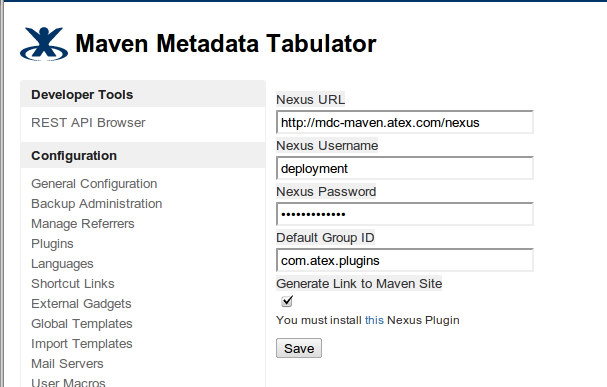
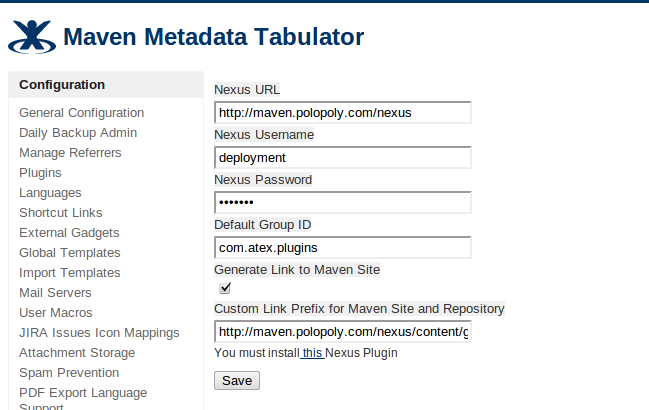
MDCPD-188 Add validation and tune unit test case

Changed region(s): [[0.3262, 0.186, 0.8896, 0.9302], [0.0, 0.0, 0.6227, 1.0], [0.3262, 0.8992, 0.4152, 0.9612]]

diff --git a/src/test/java/com/atex/confluence/plugin/nexus/config/ConfigurationReaderTest.java b/src/test/java/com/atex/confluence/plugin/nexus/config/ConfigurationReaderTest.java
@@ -1,34 +1,78 @@
 package com.atex.confluence.plugin.nexus.config;
 
-import java.io.IOException;
+import static junit.framework.Assert.assertEquals;
+import static junit.framework.Assert.assertNull;
+import static org.mockito.Mockito.when;
+
+import java.net.MalformedURLException;
 
 import org.apache.commons.httpclient.UsernamePasswordCredentials;
 import org.apache.commons.httpclient.auth.AuthScope;
+import org.junit.Before;
 import org.junit.Test;
+import org.mockito.Mock;
+import org.mockito.MockitoAnnotations;
 
-import com.atex.confluence.plugin.nexus.config.Configuration;
-
-import static junit.framework.Assert.*;
+import com.atlassian.sal.api.pluginsettings.PluginSettings;
+import com.atlassian.sal.api.pluginsettings.PluginSettingsFactory;
 
 /**
  * @author pau
  *
  */
 public class ConfigurationReaderTest {
-    
-    @Test
-    public void testRead() throws IOException {
-        Configuration target = new Configuration("http://thisisnexus.com/nexus", "thisisusername", "thisispassword", "com.example.plugins", true, "http://nexuslink.com/prefix/");
-        AuthScope scope = target.getAuthScope();
-        assertEquals("thisisnexus.com", scope.getHost());
-        assertEquals(80, scope.getPort());
-        UsernamePasswordCredentials credentials = (UsernamePasswordCredentials)target.getCredentials();
-        assertEquals("thisisusername", credentials.getUserName());
-        assertEquals("thisispassword", credentials.getPassword());
-        assertEquals("com.example.plugins", target.getGroupId());
-        assertEquals("http://thisisnexus.com/nexus", target.getURL());
-        assertEquals("http://thisisnexus.com/nexus/service/local/lucene/search", target.getSearchURI());
-        assertEquals("http://thisisnexus.com/nexus/service/local/all_repositories", target.getSearchRepositoriesURI());
-        assertEquals("http://nexuslink.com/prefix/", target.getNexusLinkPrefix());
+
+    ConfigurationReader target;
+
+    Configuration configuration;
+
+    @Mock
+    PluginSettingsFactory pluginSettingsFactory;
+    @Mock
+    PluginSettings settings;
+
+    private static final String SAMPLE_HOST = "thisisnexus.com";
+    private static final String SAMPLE_URL = "http://" + SAMPLE_HOST + "/nexus";
+    private static final String SAMPLE_USERNAME = "thisisusername";
+    private static final String SAMPLE_PASSWORD = "thisispassword";
+    private static final String SAMPLE_GROUPID = "com.example.plugins";
+    private static final String SAMPLE_NEXUSLINKPREFIX = "http://nexuslink.com/prefix";
+
+    @Before
+    public void setup() {
+        MockitoAnnotations.initMocks(this);
+        target = new ConfigurationReader(pluginSettingsFactory);
+        when(pluginSettingsFactory.createGlobalSettings()).thenReturn(settings);
+        when(settings.get(Configuration.URL)).thenReturn(SAMPLE_URL);
+        when(settings.get(Configuration.USERNAME)).thenReturn(SAMPLE_USERNAME);
+        when(settings.get(Configuration.PASSWORD)).thenReturn(SAMPLE_PASSWORD);
+        when(settings.get(Configuration.GROUPID)).thenReturn(SAMPLE_GROUPID);
+        when(settings.get(Configuration.NEXUSLINKPREFIX)).thenReturn(SAMPLE_NEXUSLINKPREFIX);
     }
+
+    @Test
+    public void testTransaction() throws MalformedURLException {
+        when(settings.get(Configuration.GENERATE_LINK)).thenReturn("true");
+        configuration = target.doInTransaction();
+        AuthScope scope = configuration.getAuthScope();
+        assertEquals(SAMPLE_HOST, scope.getHost());
+        assertEquals(80, scope.getPort());
+        UsernamePasswordCredentials credentials = (UsernamePasswordCredentials)configuration.getCredentials();
+        assertEquals(SAMPLE_USERNAME, credentials.getUserName());
+        assertEquals(SAMPLE_PASSWORD, credentials.getPassword());
+        assertEquals(SAMPLE_GROUPID, configuration.getGroupId());
+        assertEquals(SAMPLE_URL, configuration.getURL());
+        assertEquals(SAMPLE_URL + "/service/local/lucene/search", configuration.getSearchURI());
+        assertEquals(SAMPLE_URL + "/service/local/all_repositories", configuration.getSearchRepositoriesURI());
+        assertEquals(SAMPLE_NEXUSLINKPREFIX, configuration.getNexusLinkPrefix());
+        assertEquals(true, configuration.isGenerateLink());
+    }
+
+    @Test
+    public void testMalformedURLTransaction() throws MalformedURLException {
+        when(settings.get(Configuration.URL)).thenReturn("malformed");
+        configuration = target.doInTransaction();
+        assertNull(configuration);
+    }
+
 }

diff --git a/src/test/java/com/atex/confluence/plugin/nexus/config/ConfigurationTest.java b/src/test/java/com/atex/confluence/plugin/nexus/config/ConfigurationTest.java
@@ -4,6 +4,8 @@ import static org.junit.Assert.*;
 
 import java.net.MalformedURLException;
 
+import org.apache.commons.httpclient.UsernamePasswordCredentials;
+import org.apache.commons.httpclient.auth.AuthScope;
 import org.junit.Before;
 import org.junit.Test;
 
@@ -13,22 +15,31 @@ public class ConfigurationTest {
     @Before
     public void setUp() throws Exception {
         target = new Configuration("http://urlString.com", 
-                "username","password","groupId",true, "http://nexuslink.com/prefix/");
+                "username","password","groupId", true, "");
+    }
+
+    @Test
+    public void testConfiguration() {
+        Configuration configuration = new Configuration();
+        assertNotNull(configuration);
     }
 
     @Test
     public void testGetUsername() {
-        assertEquals("username", target.getUsername());
+        target.setUsername("otheruser");
+        assertEquals("otheruser", target.getUsername());
     }
 
     @Test
     public void testGetPassword() {
-        assertEquals("password", target.getPassword());
+        target.setPassword("otherpassword");
+        assertEquals("otherpassword", target.getPassword());
     }
 
     @Test
     public void testGetGroupId() {
-        assertEquals("groupId", target.getGroupId());
+        target.setGroupId("othergroupId");
+        assertEquals("othergroupId", target.getGroupId());
     }
 
     @Test
@@ -48,7 +59,8 @@ public class ConfigurationTest {
 
     @Test
     public void testGetURLString() {
-        assertEquals("http://urlString.com", target.getUrlString());
+        target.setUrlString("http://urlStringToo.com");
+        assertEquals("http://urlStringToo.com", target.getUrlString());
     }
 
     @Test
@@ -62,8 +74,38 @@ public class ConfigurationTest {
     }
 
     @Test
+    public void testGenerateLink() {
+        target.setGenerateLink(false);
+        assertFalse(target.isGenerateLink());
+    }
+
+    @Test
+    public void testGetCredential() {
+        UsernamePasswordCredentials credentials = (UsernamePasswordCredentials) target.getCredentials();
+        assertNotNull(credentials);
+        assertEquals("username", credentials.getUserName());
+        assertEquals("password", credentials.getPassword());
+    }
+
+    @Test
+    public void testGetAuthScope() {
+        AuthScope scope = target.getAuthScope();
+        assertEquals("urlstring.com", scope.getHost());
+        assertEquals(80, scope.getPort());
+    }
+
+    @Test
+    public void testGetAuthScopeDefinedPort() throws MalformedURLException {
+        target.setURL("http://urlString.com:8080");
+        AuthScope scope = target.getAuthScope();
+        assertEquals("urlstring.com", scope.getHost());
+        assertEquals(8080, scope.getPort());
+    }
+
+    @Test
     public void testGetNexusLinkPrefix() {
-        assertEquals("http://nexuslink.com/prefix/", target.getNexusLinkPrefix());
+        target.setNexusLinkPrefix("http://nexuslink.com/prefix");
+        assertEquals("http://nexuslink.com/prefix", target.getNexusLinkPrefix());
     }
 
 }

diff --git a/src/test/java/com/atex/confluence/plugin/nexus/data/ArtifactTest.java b/src/test/java/com/atex/confluence/plugin/nexus/data/ArtifactTest.java
@@ -1,12 +1,12 @@
 package com.atex.confluence.plugin.nexus.data;
 
-import static org.junit.Assert.*;
+import static org.junit.Assert.assertEquals;
+import static org.junit.Assert.assertFalse;
+import static org.junit.Assert.assertNotNull;
+import static org.junit.Assert.assertTrue;
 
 import org.junit.Before;
 import org.junit.Test;
-import org.mockito.MockitoAnnotations;
-
-import static org.mockito.Mockito.*;
 
 public class ArtifactTest {
 
@@ -14,8 +14,7 @@ public class ArtifactTest {
 
     @Before
     public void setUp() throws Exception {
-        MockitoAnnotations.initMocks(this);
-        target = spy(new Artifact()) ;
+        target = new Artifact() ;
         target.setGroupId("groupId");
         target.setArtifactId("artifactId");
         target.setVersion("1.0.0");
@@ -23,12 +22,7 @@ public class ArtifactTest {
         target.setLatestReleaseRepositoryId("latestReleaseRepositoryId");
         target.setLatestSnapshot("2.0.1-SNAPSHOT");
         target.setLatestSnapshotRepositoryId("latestSnapshotRepositoryId");
-//        when(target.isSnapshot()).thenReturn(true);
     }
-
-//    private void whenNotSnapshot() {
-//        when(target.isSnapshot()).thenReturn(false);
-//    }
 
     @Test
     public void testGetGroupId() {
@@ -82,4 +76,53 @@ public class ArtifactTest {
         assertFalse(target.isSnapshot());
     }
 
+    @Test
+    public void testToString() {
+        String expected = "[groupId: groupId, artifactId: artifactId, version: 1.0.0, latestSnapshotRepositoryId: latestSnapshotRepositoryId, latestReleaseRepositoryId: latestReleaseRepositoryId, latestRelease: 2.0.0]";
+        assertEquals(expected, target.toString());
+    }
+
+    @Test
+    public void testEqual() {
+        assertTrue(target.equals(target));
+    }
+
+    @Test
+    public void testNotEqualArtifactId() {
+        Artifact another = new Artifact() ;
+        another.setGroupId("groupId");
+        another.setArtifactId("otherartifactId");
+        another.setVersion("1.0.0");
+        assertFalse(target.equals(another));
+    }
+
+    @Test
+    public void testNotEqualGroupId() {
+        Artifact another = new Artifact() ;
+        another.setGroupId("othergroupId");
+        another.setArtifactId("artifactId");
+        another.setVersion("1.0.0");
+        assertFalse(target.equals(another));
+    }
+
+    @Test
+    public void testNotEqualVersion() {
+        Artifact another = new Artifact() ;
+        another.setGroupId("groupId");
+        another.setArtifactId("artifactId");
+        another.setVersion("2.0.0");
+        assertFalse(target.equals(another));
+    }
+
+    @Test
+    public void testNotEqualOtherInstance() {
+        Object object = new Object();
+        assertFalse(target.equals(object));
+    }
+
+    @Test
+    public void testHashCode() {
+        Integer expected = target.hashCode();
+        assertNotNull(expected);
+    }
 }

diff --git a/src/main/java/com/atex/confluence/plugin/nexus/config/ConfigurationServlet.java b/src/main/java/com/atex/confluence/plugin/nexus/config/ConfigurationServlet.java
@@ -13,6 +13,7 @@ import com.atlassian.templaterenderer.TemplateRenderer;
 import java.io.IOException;
 import java.net.MalformedURLException;
 import java.net.URI;
+import java.net.URL;
 import java.util.HashMap;
 import java.util.Map;
 import javax.servlet.ServletException;
@@ -89,6 +90,9 @@ public class ConfigurationServlet extends HttpServlet {
         if (!isValid(groupId)) {
             models.put("groupId", "error");
         }
+        if (!isWellformedURL(nexusLinkPrefix)) {
+            models.put("nexusLinkPrefix", "error");
+        }
 
         Configuration configuration = null;
         try {
@@ -135,7 +139,18 @@ public class ConfigurationServlet extends HttpServlet {
             renderer.render(VIEW, models, resp.getWriter());
         }
     }
-    
+
+    private boolean isWellformedURL(String nexusLinkPrefix) {
+        if (isValid(nexusLinkPrefix)) {
+            try {
+                new URL(nexusLinkPrefix);
+            } catch (MalformedURLException e) {
+                return false;
+            }
+        }
+        return true;
+    }
+
     private boolean isValid(String value) {
         if (value == null || value.trim().isEmpty()) {
             return false;

diff --git a/src/main/java/com/atex/confluence/plugin/nexus/config/ConfigurationReader.java b/src/main/java/com/atex/confluence/plugin/nexus/config/ConfigurationReader.java
@@ -31,11 +31,16 @@ public class ConfigurationReader implements TransactionCallback<Configuration> {
             String groupId = (String)settings.get(GROUPID);
             String nexusLinkPrefix = (String)settings.get(NEXUSLINKPREFIX);
             Boolean generateLink = Boolean.valueOf((String) settings.get(GENERATE_LINK));
-            return new Configuration(urlString, username, password, groupId, generateLink == null? false: generateLink.booleanValue(), nexusLinkPrefix);
+            boolean generateLinkValue = generateLink.booleanValue();
+            return new Configuration(urlString, username, password, groupId, generateLinkValue, nexusLinkPrefix);
         } catch (MalformedURLException ex) {
             // invalid url
             Logger.getLogger(ConfigurationReader.class.getName()).log(Level.SEVERE, ex.getMessage());
         }
         return null;
+    }
+
+    public PluginSettingsFactory getPluginSettingsFactory() {
+        return pluginSettingsFactory;
     }
 }

diff --git a/src/test/java/com/atex/confluence/plugin/nexus/connect/RepositoryTest.java b/src/test/java/com/atex/confluence/plugin/nexus/connect/RepositoryTest.java
@@ -26,4 +26,9 @@ public class RepositoryTest {
         assertEquals("repositoryURL", target.getRepositoryURL());
     }
 
+    @Test
+    public void testToString() {
+        String expected = "[repositoryId: repositoryId, repositoryURL: repositoryURL]";
+        assertEquals(expected, target.toString());
+    }
 }
